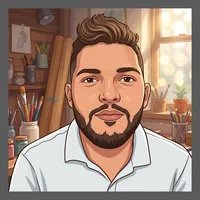
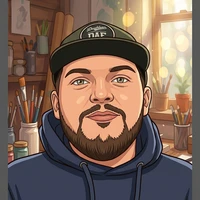
fix(ui): raise cookie privacy link contrast to WCAG AA
- Remove opacity 0.7 that dropped link contrast to 1.78:1 on light
- Use --body token (dark 8.70:1, light 7.96:1) with underline
- Solid white banner background in light theme for readable text
- Replace Carlos avatar with new photo (center-cropped 200x200 WebP)

diff --git a/src/styles/components.css b/src/styles/components.css
@@ -1489,19 +1489,19 @@
   gap: 0.2rem;
 }
 .cookie-banner-text a {
-  color: var(--terracota);
+  color: var(--body);
   text-decoration: underline;
+  text-underline-offset: 2px;
 }
 .cookie-privacy-link {
   font-size: 0.65rem;
-  color: var(--body-dim);
-  text-decoration: none;
-  opacity: 0.7;
-  transition: color 0.2s, opacity 0.2s;
+  color: var(--body);
+  text-decoration: underline;
+  text-underline-offset: 2px;
+  transition: color 0.2s;
 }
 .cookie-privacy-link:hover {
   color: var(--terracota);
-  opacity: 1;
 }
 .cookie-banner .btn-premium {
   margin-left: auto;
@@ -1546,6 +1546,13 @@
     width: auto;
     align-self: flex-end;
     margin-left: auto;
+  }
+}
+@media (prefers-color-scheme: light) {
+  .cookie-banner {
+    background: rgba(255, 255, 255, 0.92);
+    border-color: var(--border);
+    box-shadow: 0 4px 24px oklch(0 0 0 / 0.12);
   }
 }
 
